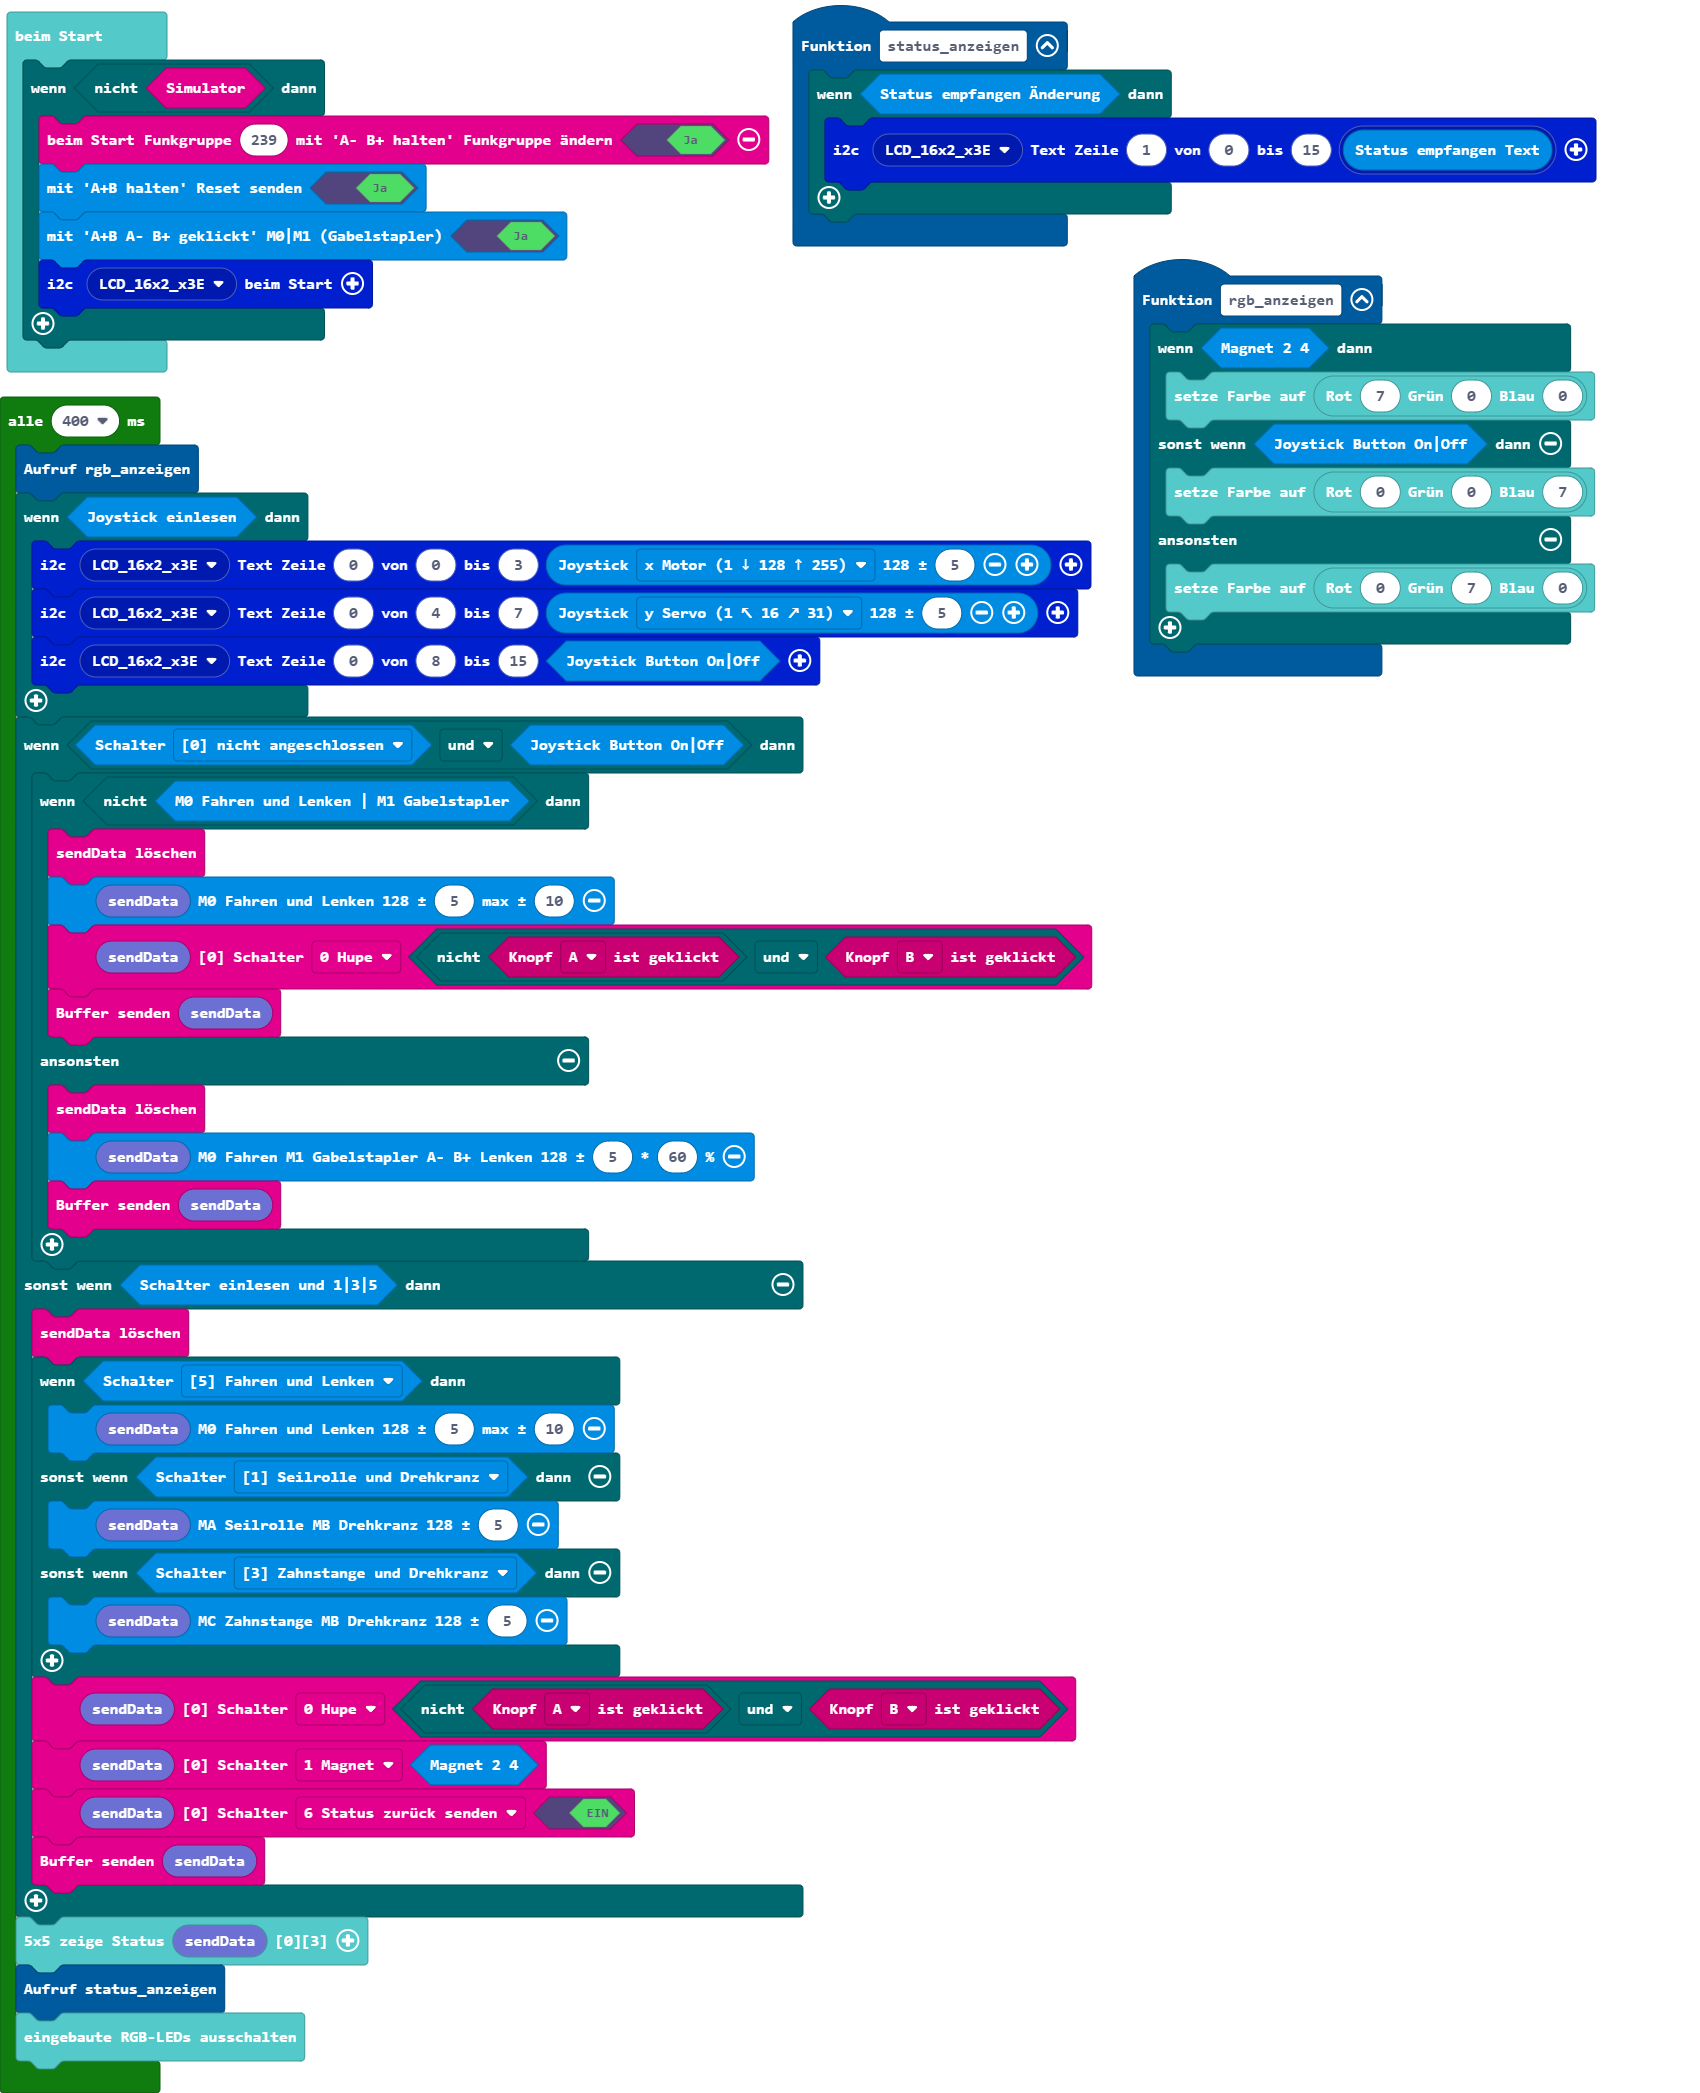
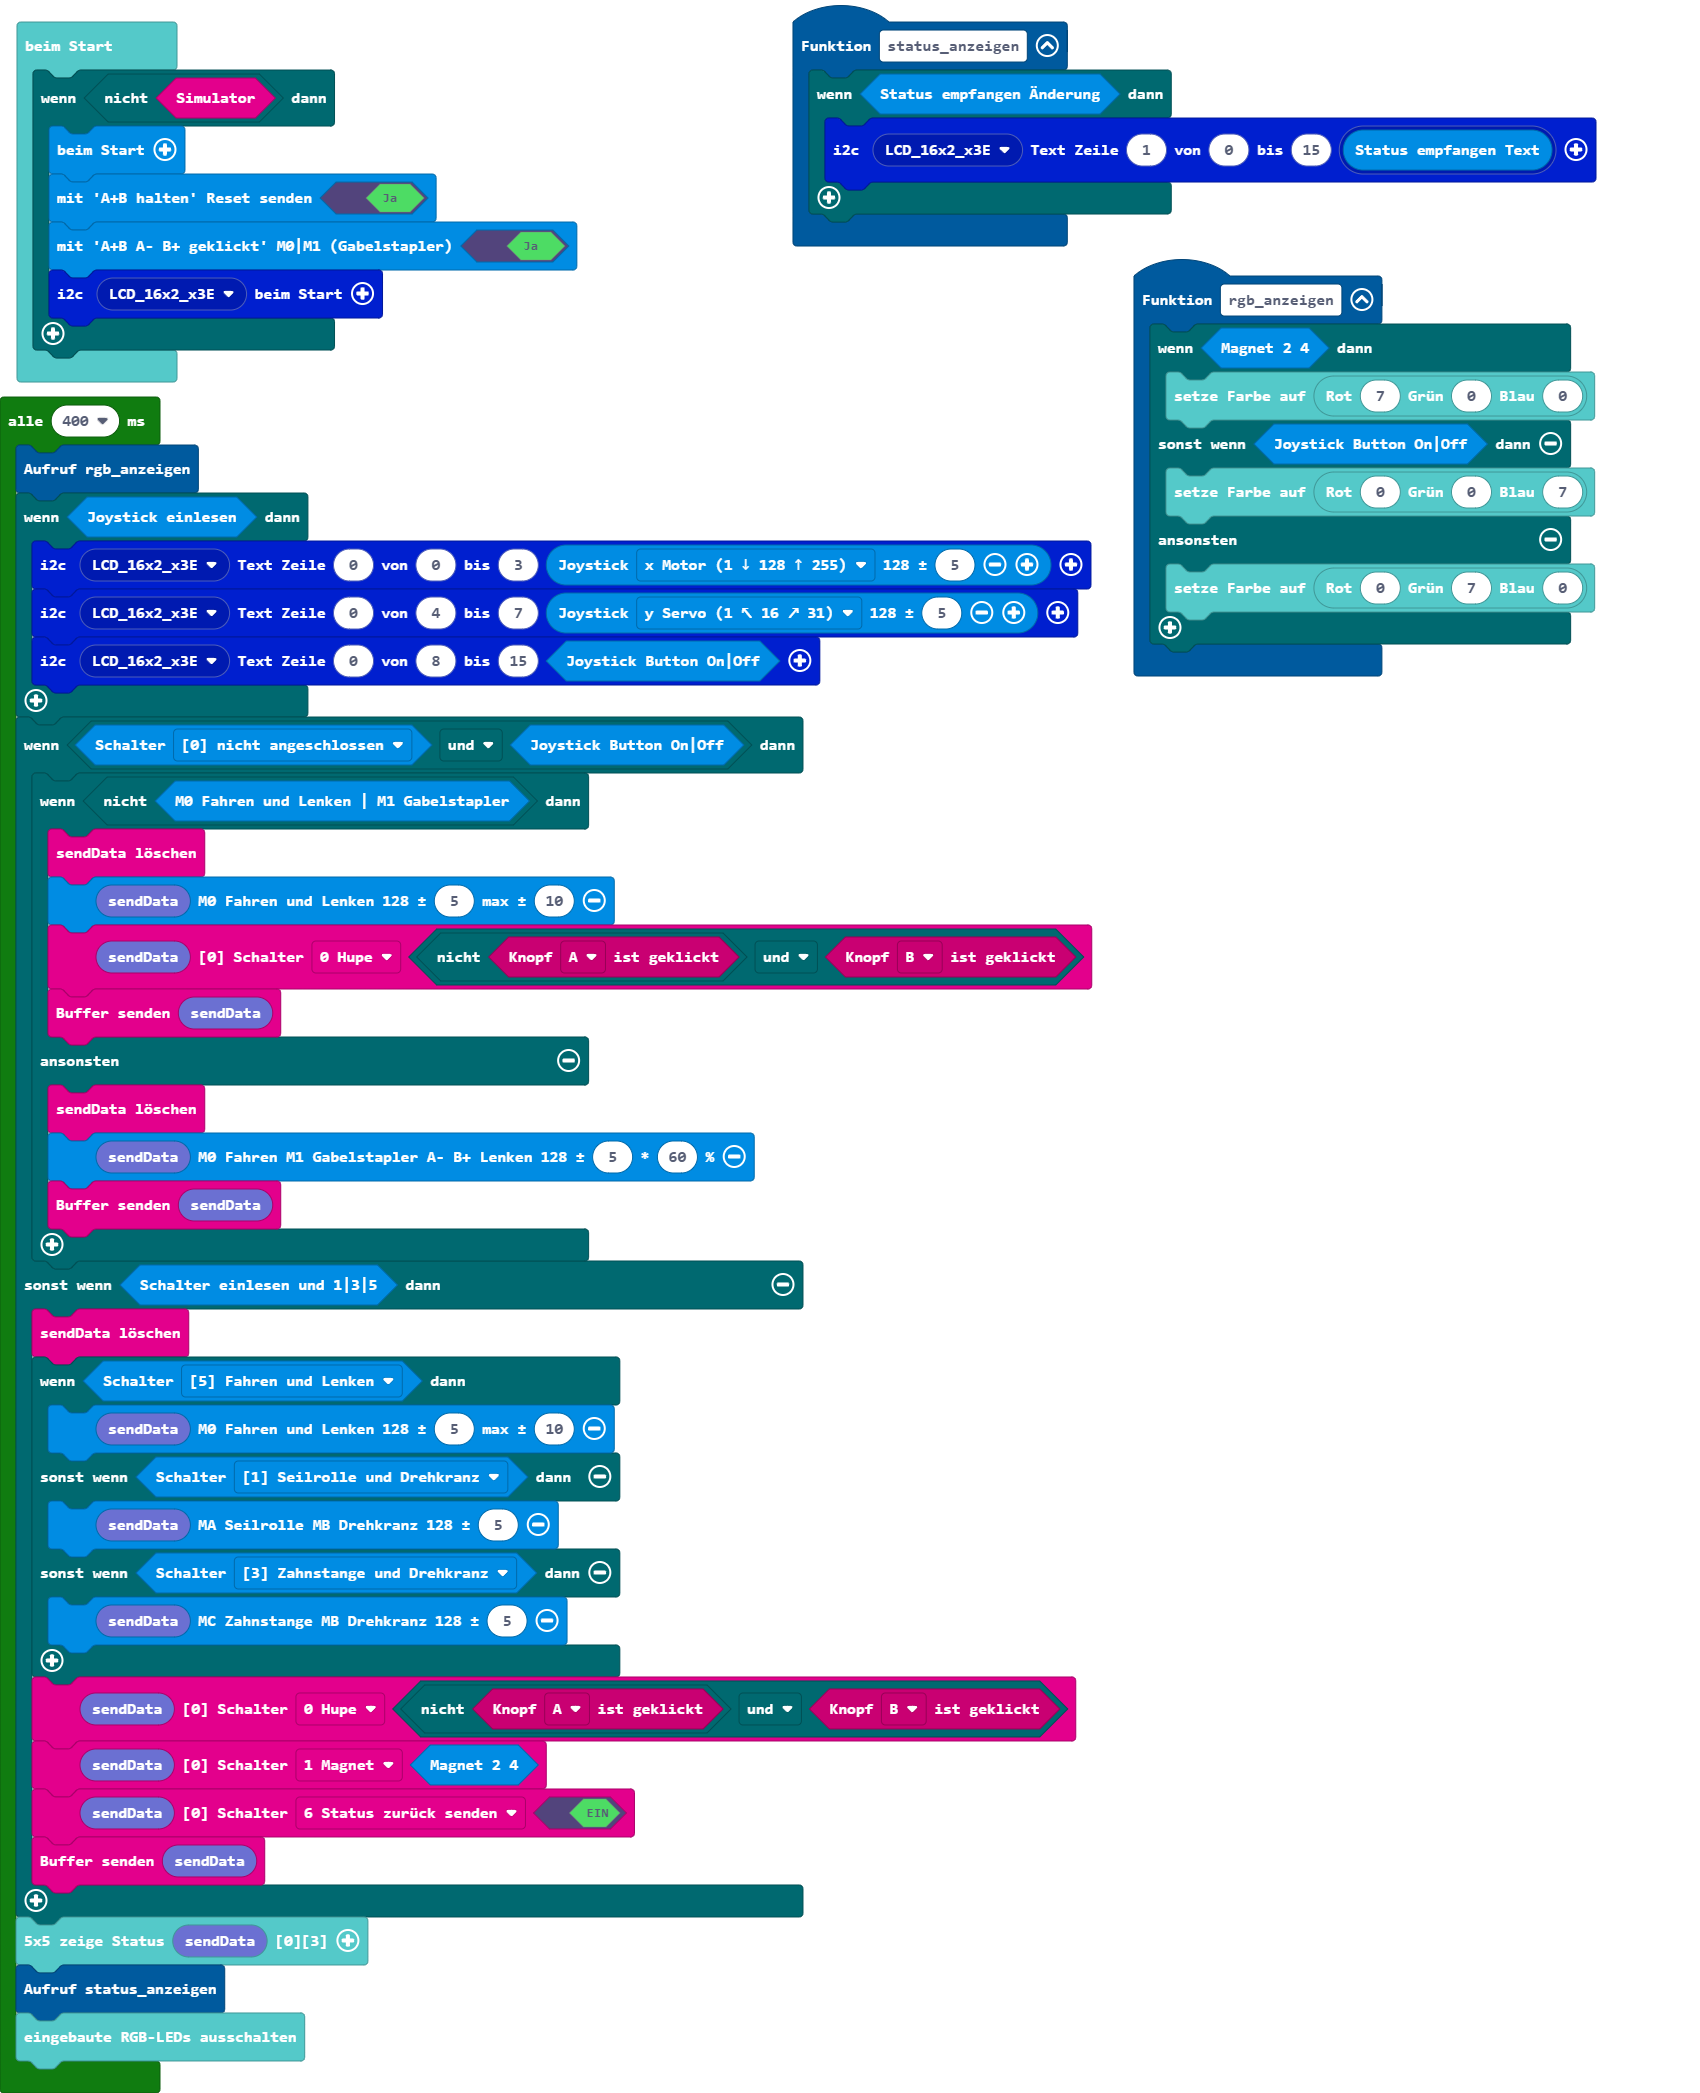
Aktualisiere pxt.json, main.blocks, main.ts

Changed region(s): [[0.0, 0.0, 0.4676, 0.1863]]

diff --git a/main.ts b/main.ts
@@ -13,7 +13,7 @@ function rgb_anzeigen () {
     }
 }
 if (!(radio.simulator())) {
-    radio.beimStart(239, true)
+    sender.beimStart()
     sender.enableButtonSendReset(true)
     sender.enableButtonMotor1(true)
     lcd16x2rgb.initLCD(lcd16x2rgb.lcd16x2_eADDR(lcd16x2rgb.eADDR_LCD.LCD_16x2_x3E))
